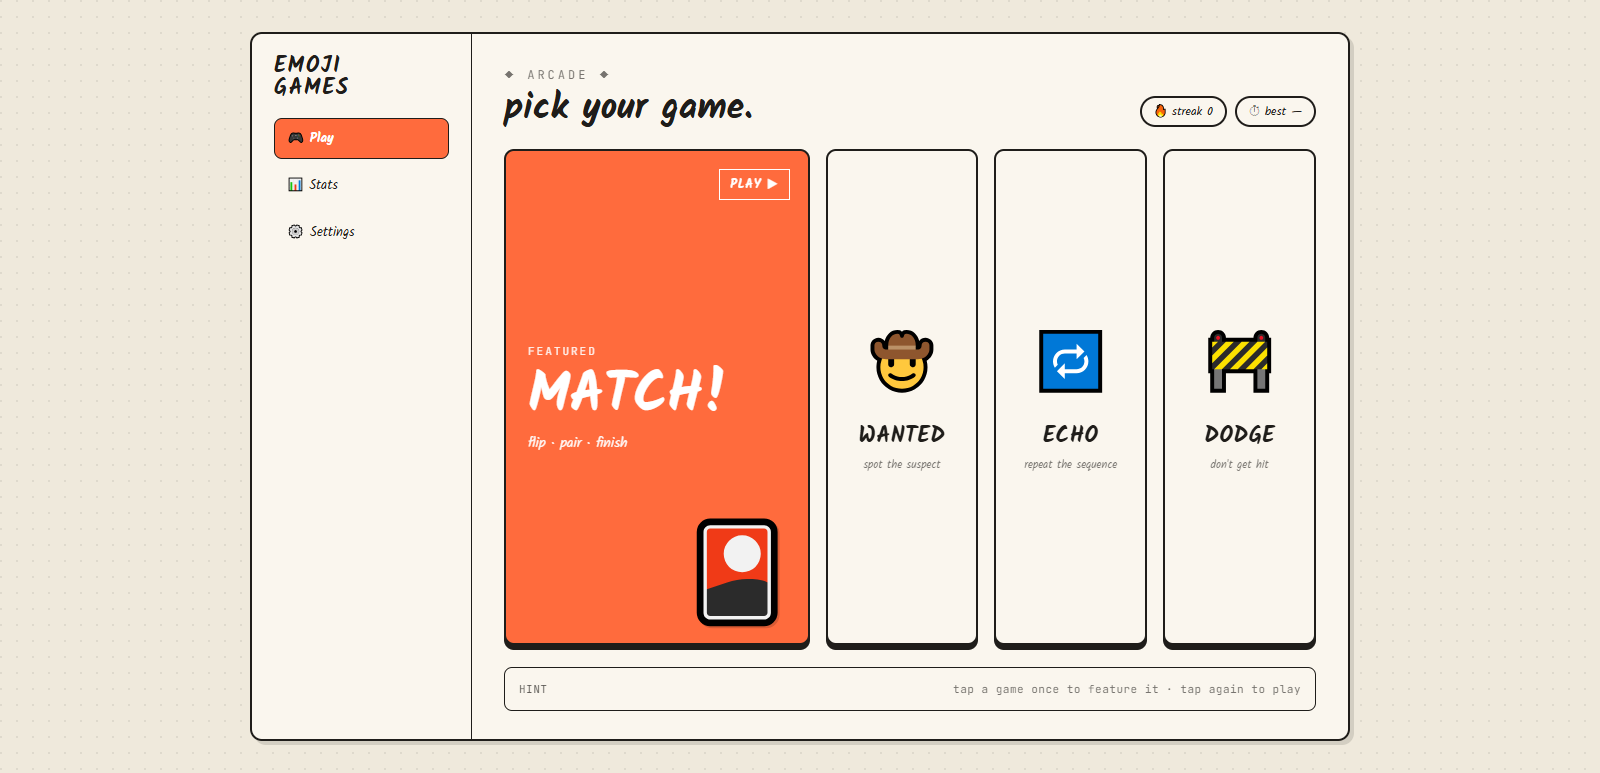
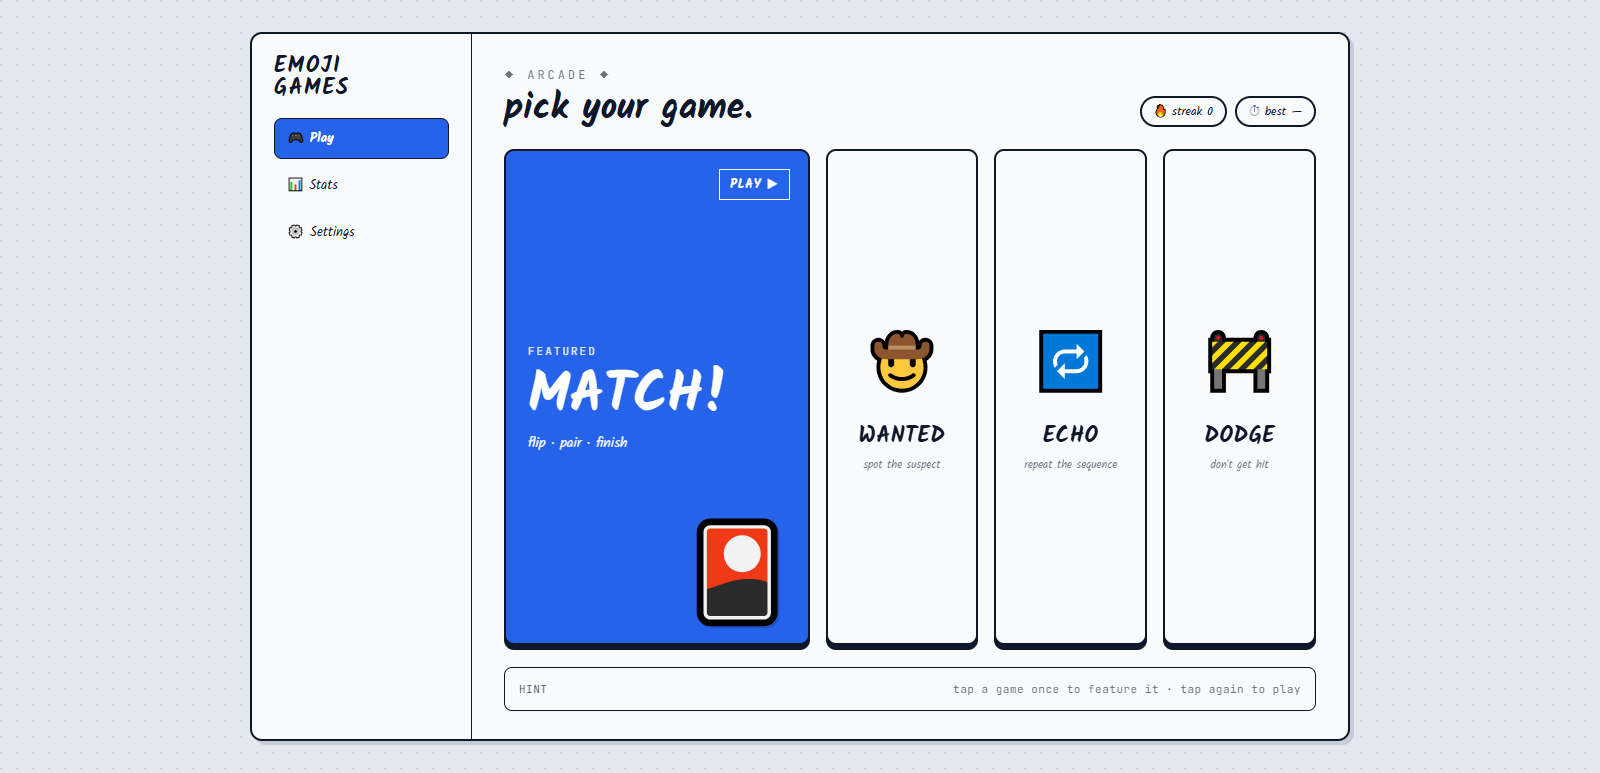
Updated emoji games image
Updated emoji games image

Changed region(s): [[0.3125, 0.1863, 0.5312, 0.8383], [0.1562, 0.1552, 0.2812, 0.2173]]

diff --git a/src/components/Projects.tsx b/src/components/Projects.tsx
@@ -32,7 +32,7 @@ const projects: Project[] = [
     tags: ['React', 'Vite', 'Axios', 'REST API'],
   },
   {
-    title: 'Emoji Games (React)',
+    title: 'Emoji Games',
     link: 'https://nfb1799.github.io/emoji-games-react/',
     image: emoji,
     description:
